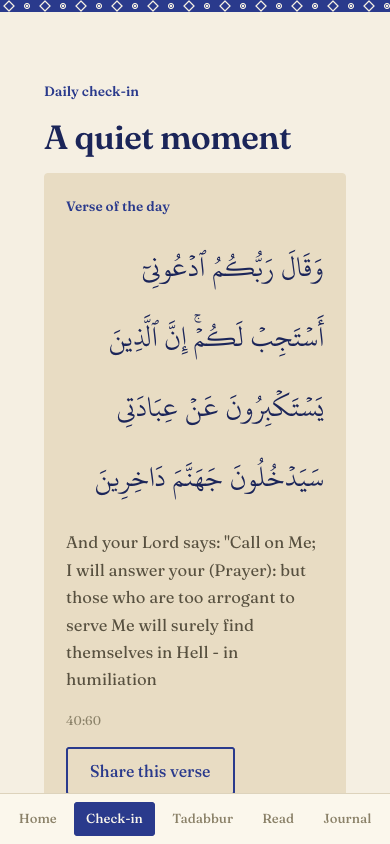
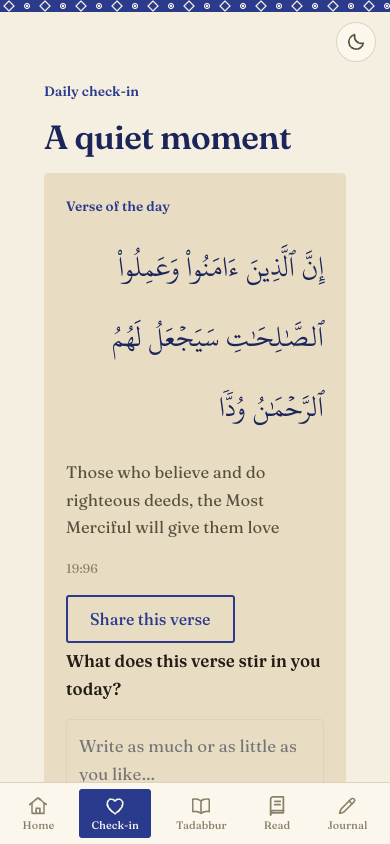
new changes

diff --git a/src/pages/Stats.tsx b/src/pages/Stats.tsx
@@ -15,6 +15,7 @@ interface StatsSnapshot {
   streak: number;
   appOpenDays: number;
   sessionsStarted: number;
+  surahTadabburStarted: number;
   sessionsCompleted: number;
   completionPct: number | null;
   checkinViews: number;
@@ -50,6 +51,7 @@ function computeStats(): StatsSnapshot {
 
   const openDays = new Set<string>();
   let sessionsStarted = 0;
+  let surahTadabburStarted = 0;
   let sessionsCompleted = 0;
   let checkinViews = 0;
   let payTaps = 0;
@@ -63,7 +65,8 @@ function computeStats(): StatsSnapshot {
         openDays.add(dayKey(t));
         break;
       case "session_start":
-        sessionsStarted++;
+        if (e.sessionId.startsWith("surah-")) surahTadabburStarted++;
+        else sessionsStarted++;
         break;
       case "session_complete":
         sessionsCompleted++;
@@ -102,6 +105,7 @@ function computeStats(): StatsSnapshot {
     streak: currentStreak(),
     appOpenDays: openDays.size,
     sessionsStarted,
+    surahTadabburStarted,
     sessionsCompleted,
     completionPct:
       sessionsStarted > 0
@@ -140,6 +144,7 @@ function summaryText(s: StatsSnapshot): string {
     `Pay-intent taps: ${s.payTaps}`,
     `Verses shared: ${s.versesShared}`,
     `Dhikr completed: ${s.dhikrCompleted}`,
+    `Surah tadabbur begun: ${s.surahTadabburStarted}`,
   ].join("\n");
 }
 
@@ -235,6 +240,7 @@ export default function Stats() {
             <Metric label="Pay-intent taps" value={String(stats.payTaps)} />
             <Metric label="Verses shared" value={String(stats.versesShared)} />
             <Metric label="Dhikr completed" value={String(stats.dhikrCompleted)} />
+            <Metric label="Surah tadabbur begun" value={String(stats.surahTadabburStarted)} />
             <Metric
               label="First seen"
               value={

diff --git a/src/components/AppShell.tsx b/src/components/AppShell.tsx
@@ -192,6 +192,19 @@ export default function AppShell({ children }: { children: ReactNode }) {
       </nav>
 
       <style>{`
+        /* --- Theme toggle: quiet, below the adire band --- */
+        .theme-toggle {
+          position: fixed; top: 22px; right: 14px; z-index: 25;
+          width: 40px; height: 40px; border-radius: 50%;
+          display: inline-flex; align-items: center; justify-content: center;
+          background: var(--cotton-raised); border: 1px solid var(--line);
+          color: var(--ink-soft); cursor: pointer;
+          transition: color .15s ease, background .15s ease;
+        }
+        .theme-toggle:hover { color: var(--indigo); }
+        .theme-toggle:active { transform: scale(0.94); }
+        @media (min-width: 900px) { .theme-toggle { top: 26px; right: 22px; } }
+
         /* --- Mobile: fixed bottom tab bar, icon above small label --- */
         .tabbar {
           position: fixed; left: 0; right: 0; bottom: 0;

diff --git a/src/pages/Home.tsx b/src/pages/Home.tsx
@@ -15,7 +15,7 @@ function greeting(hour: number): string {
 
 const entries = [
   { to: "/checkin", title: "Daily check-in", desc: "A verse for this moment, and a line to journal." },
-  { to: "/sessions", title: "Tadabbur", desc: "Sit with a theme — verse, meaning, reflection." },
+  { to: "/sessions", title: "Tadabbur", desc: "Ponder the Qur’an, surah by surah." },
   { to: "/read", title: "Read", desc: "The Qur’an, with translation and commentary." },
   { to: "/dhikr", title: "Dhikr & breath", desc: "Remembrance, paced to your breath." },
 ];
